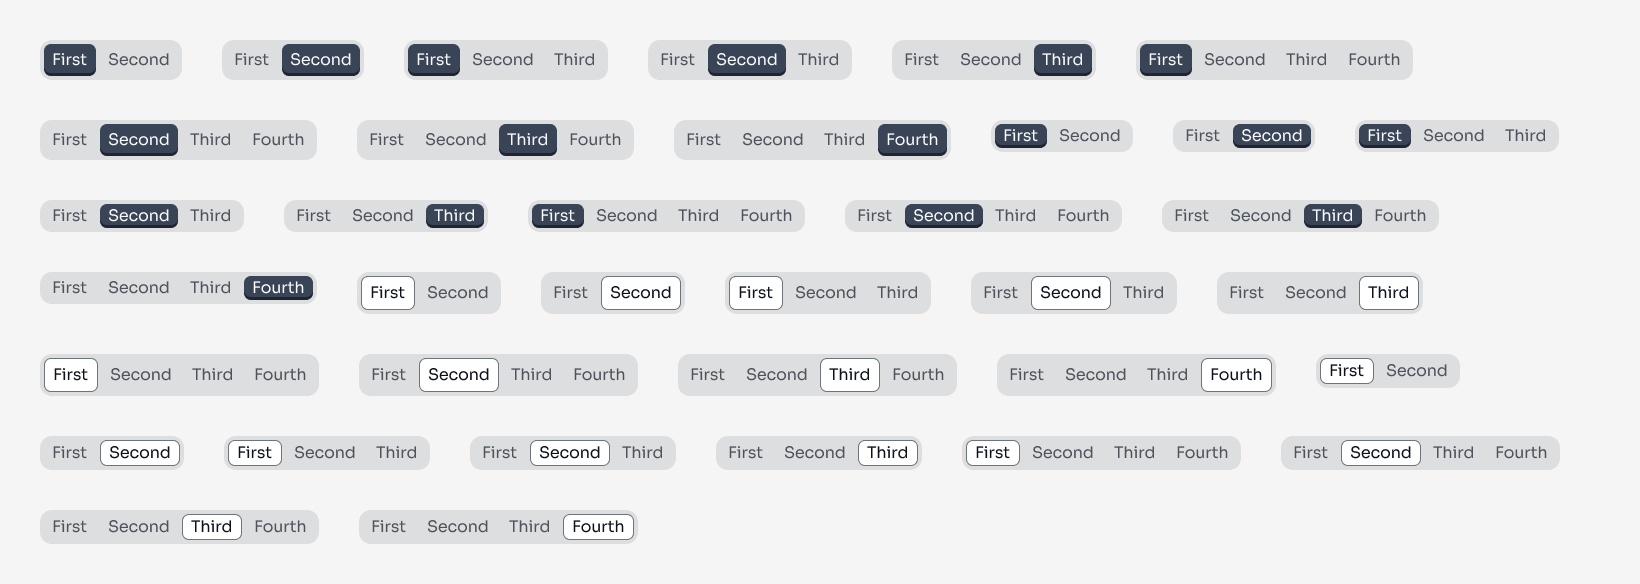
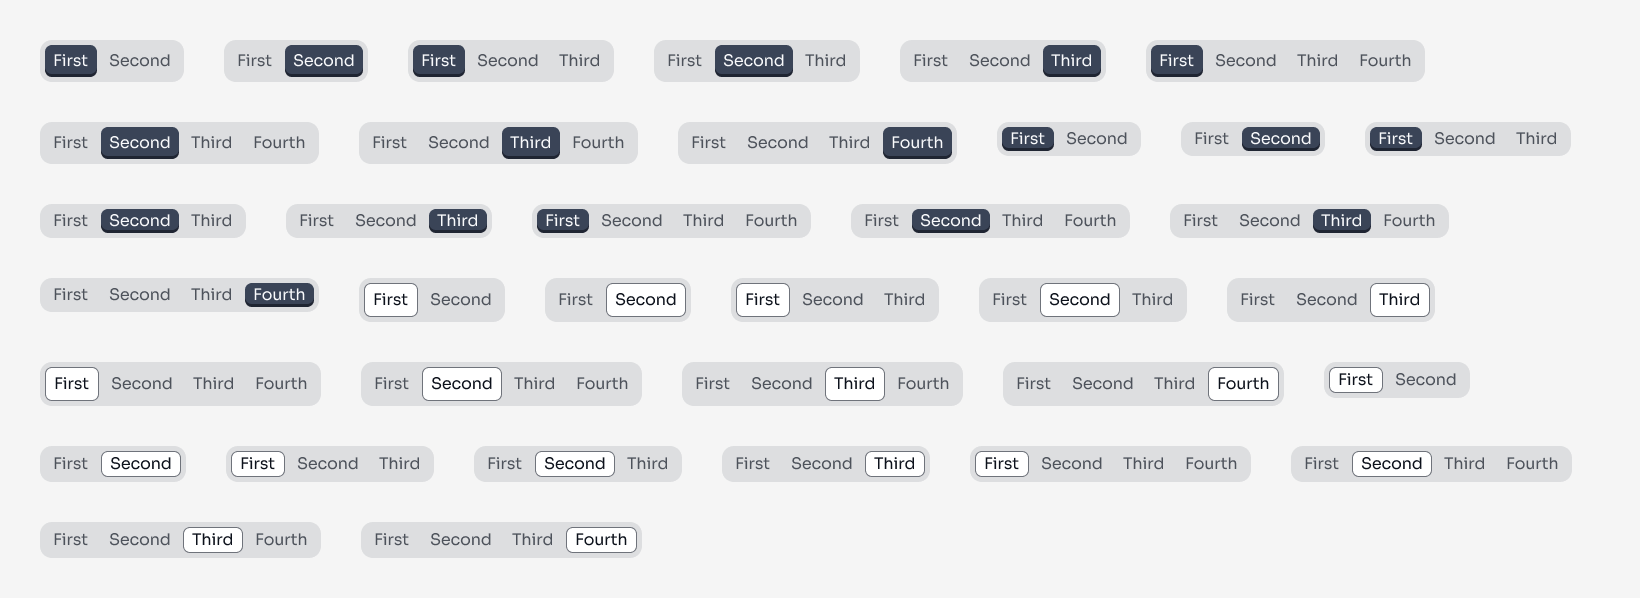
chore(figma): SegmentedControl rail gets the 1px transparent border (skip-changeset)
Inside stroke, opacity 0, included in layout: pill inset 4 + 1 = 5 as in code.

Refs hds#1468

Claude-Session: https://claude.ai/code/session_01YAE7bYF4PE7Ga6EmqNQi4D

diff --git a/figma/MCP-LEDGER.md b/figma/MCP-LEDGER.md
@@ -1637,3 +1637,12 @@ Calls logged for 2026-11-11: 50 of 200.
 Session total: 8 calls (S1-S8: 1 skill, 1 session, 2 screenshots, 3 reads of which 1 failed on the 48000-byte return limit, 1 write). Nodes changed: the 36 variant rails of 82:334 (radius 8 -> 12, Primitives/radius/12) and the 40 variant mains of SegmentedControl/Segment (radius 8 -> 7, fixed: no radius/7 variable; the code's 7 is 12 - 4 padding - 1 border, Figma rail has no stroke). No publish, no delete.
 
 Calls logged for 2026-11-12 by this session: 8 (the lead counted about 52 of 200 before it).
+
+### 2026-11-12 — SegmentedControl rail border, concentric inset 5 (hds#1468, follow-up)
+
+| #   | Tool             | Kind  | Target                                                                                                    | Purpose                                                                                                                                  | Result                                                                                       |
+| --- | ---------------- | ----- | --------------------------------------------------------------------------------------------------------- | ---------------------------------------------------------------------------------------------------------------------------------------- | -------------------------------------------------------------------------------------------- |
+| S9  | `use_figma`      | write | library 82:334: the 36 variant rails (e.g. 2337:28389): 1px INSIDE transparent stroke, included in layout | match code's 1px transparent rail border so the pill inset is 4 + 1 = 5; fall back to padding 5 if the stroke does not shift the content | OK. Stroke mode: content shifted 4 -> 5, rails 142x40 -> 144x42, no padding fallback needed. |
+| S10 | `get_screenshot` | read  | library 82:334                                                                                            | after                                                                                                                                    | OK. shots/seg-concentric-after.png replaced (now includes the border).                       |
+
+Follow-up total: 2 calls (1 write, 1 screenshot). Session total 10 calls. No publish, no delete. Rails are now 2px larger each way (stroke included in layout), as the code rail is.
